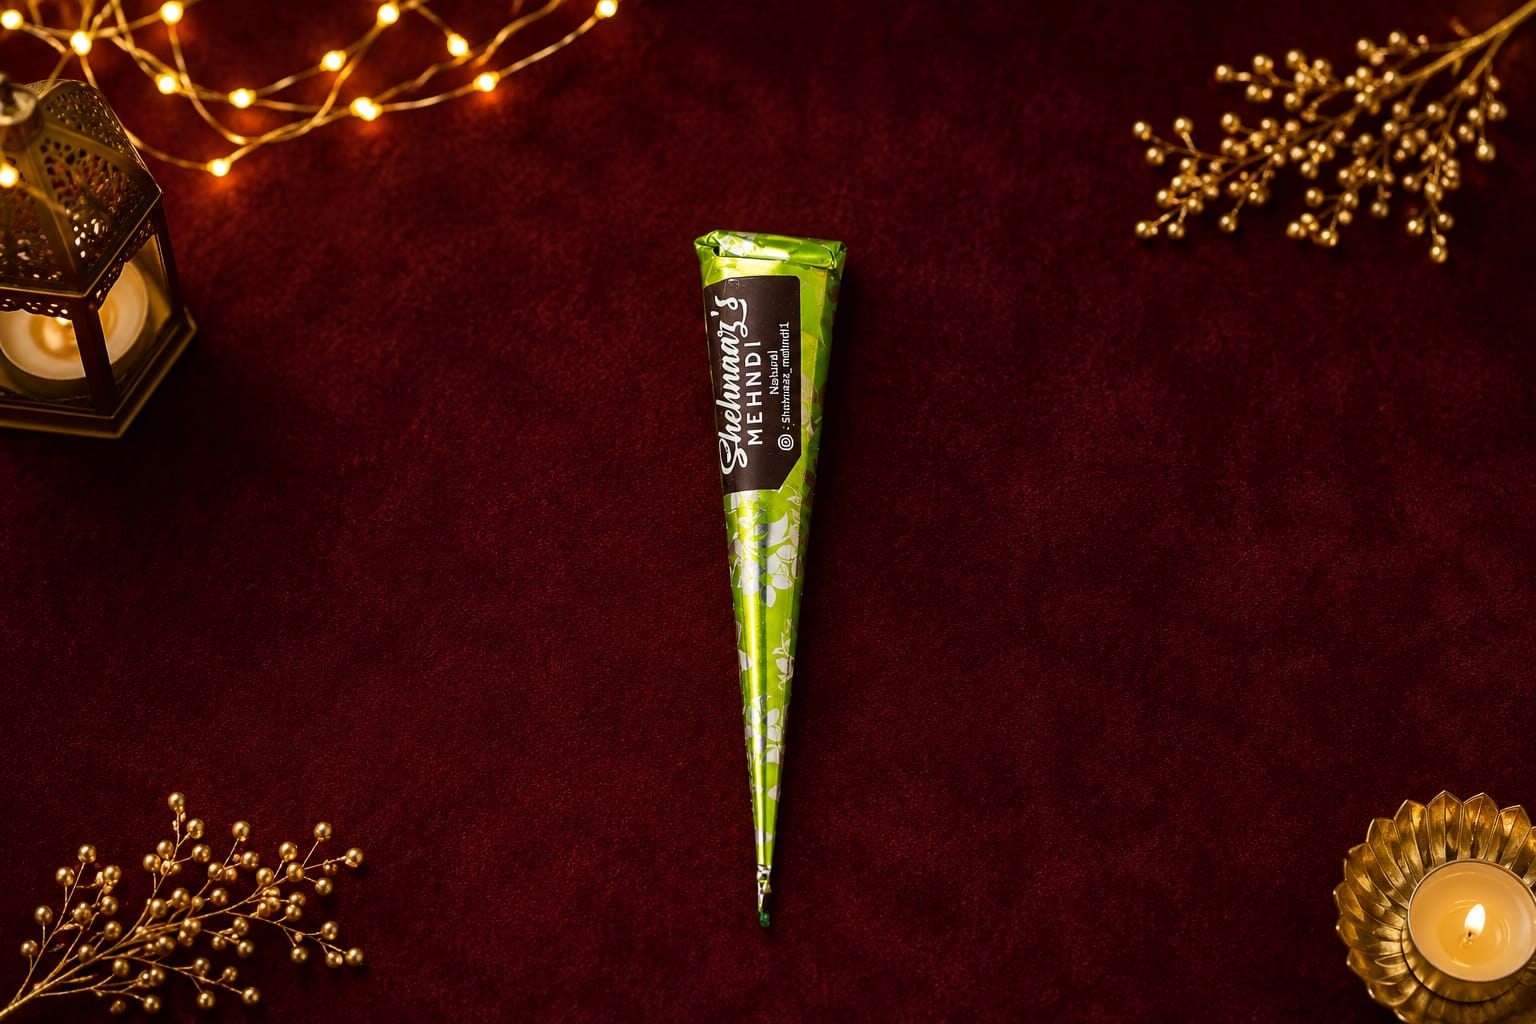
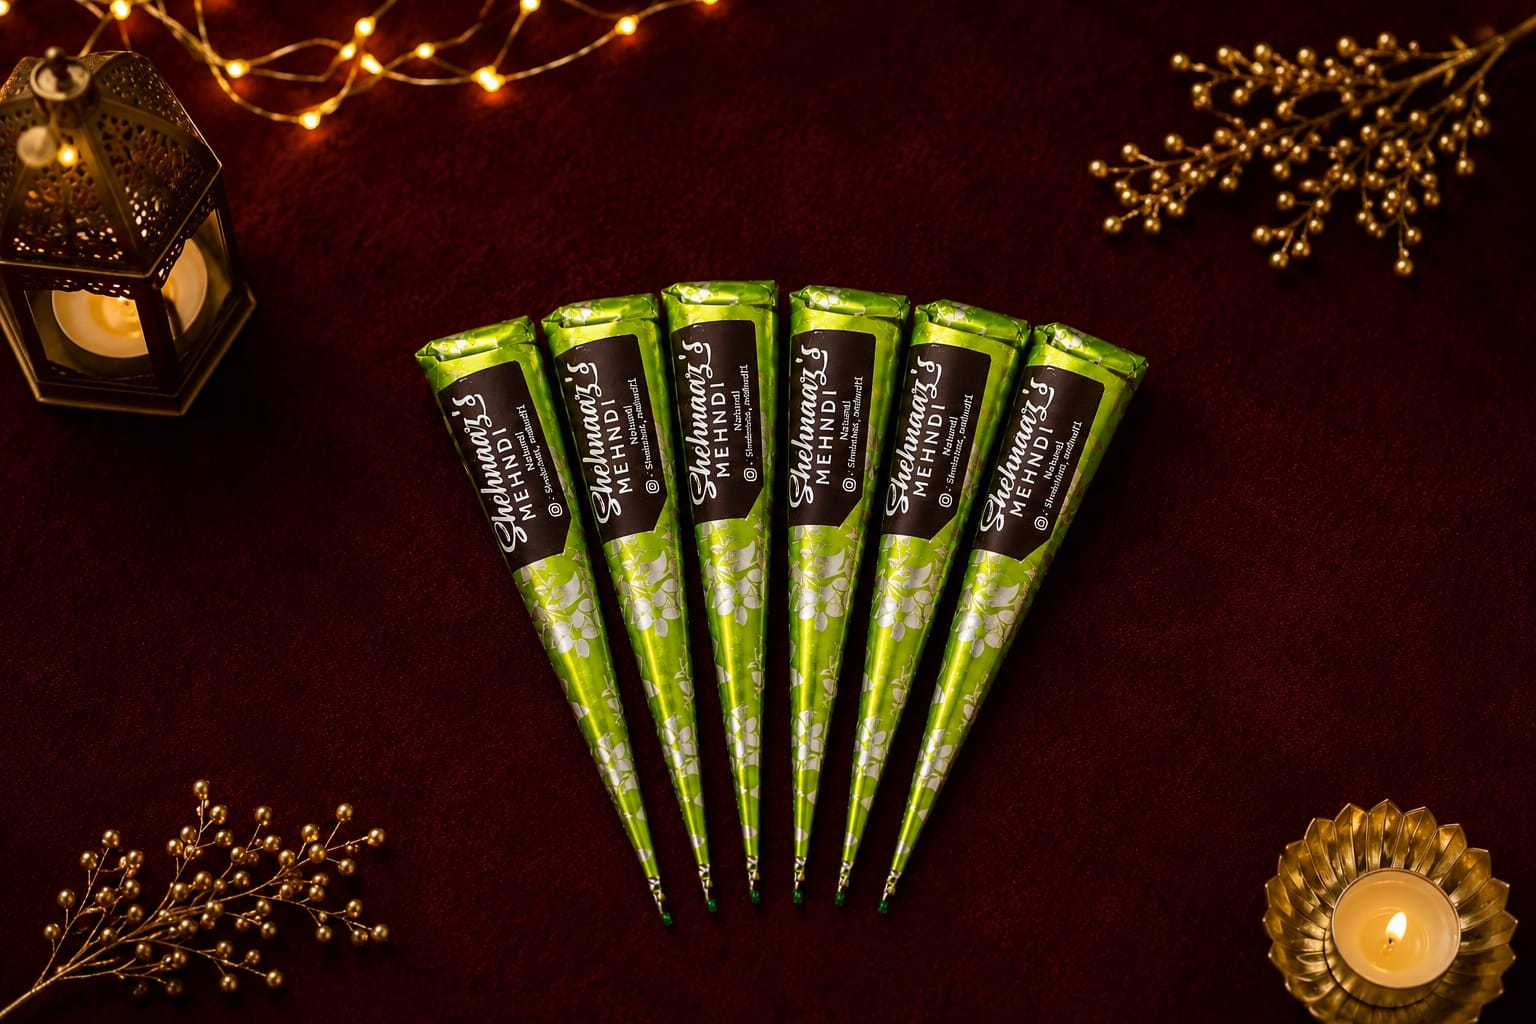
Update product photos and product listings

diff --git a/src/lib/products-data.ts b/src/lib/products-data.ts
@@ -151,20 +151,59 @@ export const seedProducts: Product[] = [
     isActive: true,
   },
 
-  // Instant Products
   {
+  id: "p-instant-nail-polish-henna-red",
+  name: "Instant Nail Polish Henna — Red",
+  slug: "instant-nail-polish-henna-red",
+  description:
+    "Instant nail-polish-style henna applicator for quick, mess-free red colour on nails.",
+  price: 100,
+  images: ["/products/real/instant-nail-polish-henna-real.jpg"],
+  categorySlug: "instant-products",
+  variantLabel: "Red",
+  stock: 60,
+  isFeatured: true,
+  isActive: true,
+},
+{
+  id: "p-instant-nail-polish-henna-maroon",
+  name: "Instant Nail Polish Henna — Maroon",
+  slug: "instant-nail-polish-henna-maroon",
+  description:
+    "Instant nail-polish-style henna applicator for quick, mess-free maroon colour on nails.",
+  price: 100,
+  images: ["/products/real/instant-nail-polish-henna-real.jpg"],
+  categorySlug: "instant-products",
+  variantLabel: "Maroon",
+  stock: 60,
+  isActive: true,
+},
+{
+  id: "p-instant-nail-polish-henna-brown",
+  name: "Instant Nail Polish Henna — Brown",
+  slug: "instant-nail-polish-henna-brown",
+  description:
+    "Instant nail-polish-style henna applicator for quick, mess-free brown colour on nails.",
+  price: 100,
+  images: ["/products/real/instant-nail-polish-henna-real.jpg"],
+  categorySlug: "instant-products",
+  variantLabel: "Brown",
+  stock: 60,
+  isActive: true,
+},
+{
   id: "p-instant-nail-polish-henna-2",
-    name: "Instant Nail Polish Henna (2 pieces)",
-    slug: "instant-nail-polish-henna-2-pieces",
-    description:
-      "Two instant nail-polish henna applicators, so you always have a backup colour on hand.",
-    price: 170,
-    images: ["/products/real/instant-nail-polish-henna-real.jpg"],
-    categorySlug: "instant-products",
-    variantLabel: "2 pieces",
-    stock: 40,
-    isActive: true,
-  },
+  name: "Instant Nail Polish Henna (2 pieces)",
+  slug: "instant-nail-polish-henna-2-pieces",
+  description:
+    "Two instant nail-polish henna applicators, so you always have a backup colour on hand.",
+  price: 170,
+  images: ["/products/real/instant-nail-polish-henna-real.jpg"],
+  categorySlug: "instant-products",
+  variantLabel: "2 pieces",
+  stock: 40,
+  isActive: true,
+},
   {
     id: "p-dipper-instant-henna",
     name: "Dipper Instant Henna",
